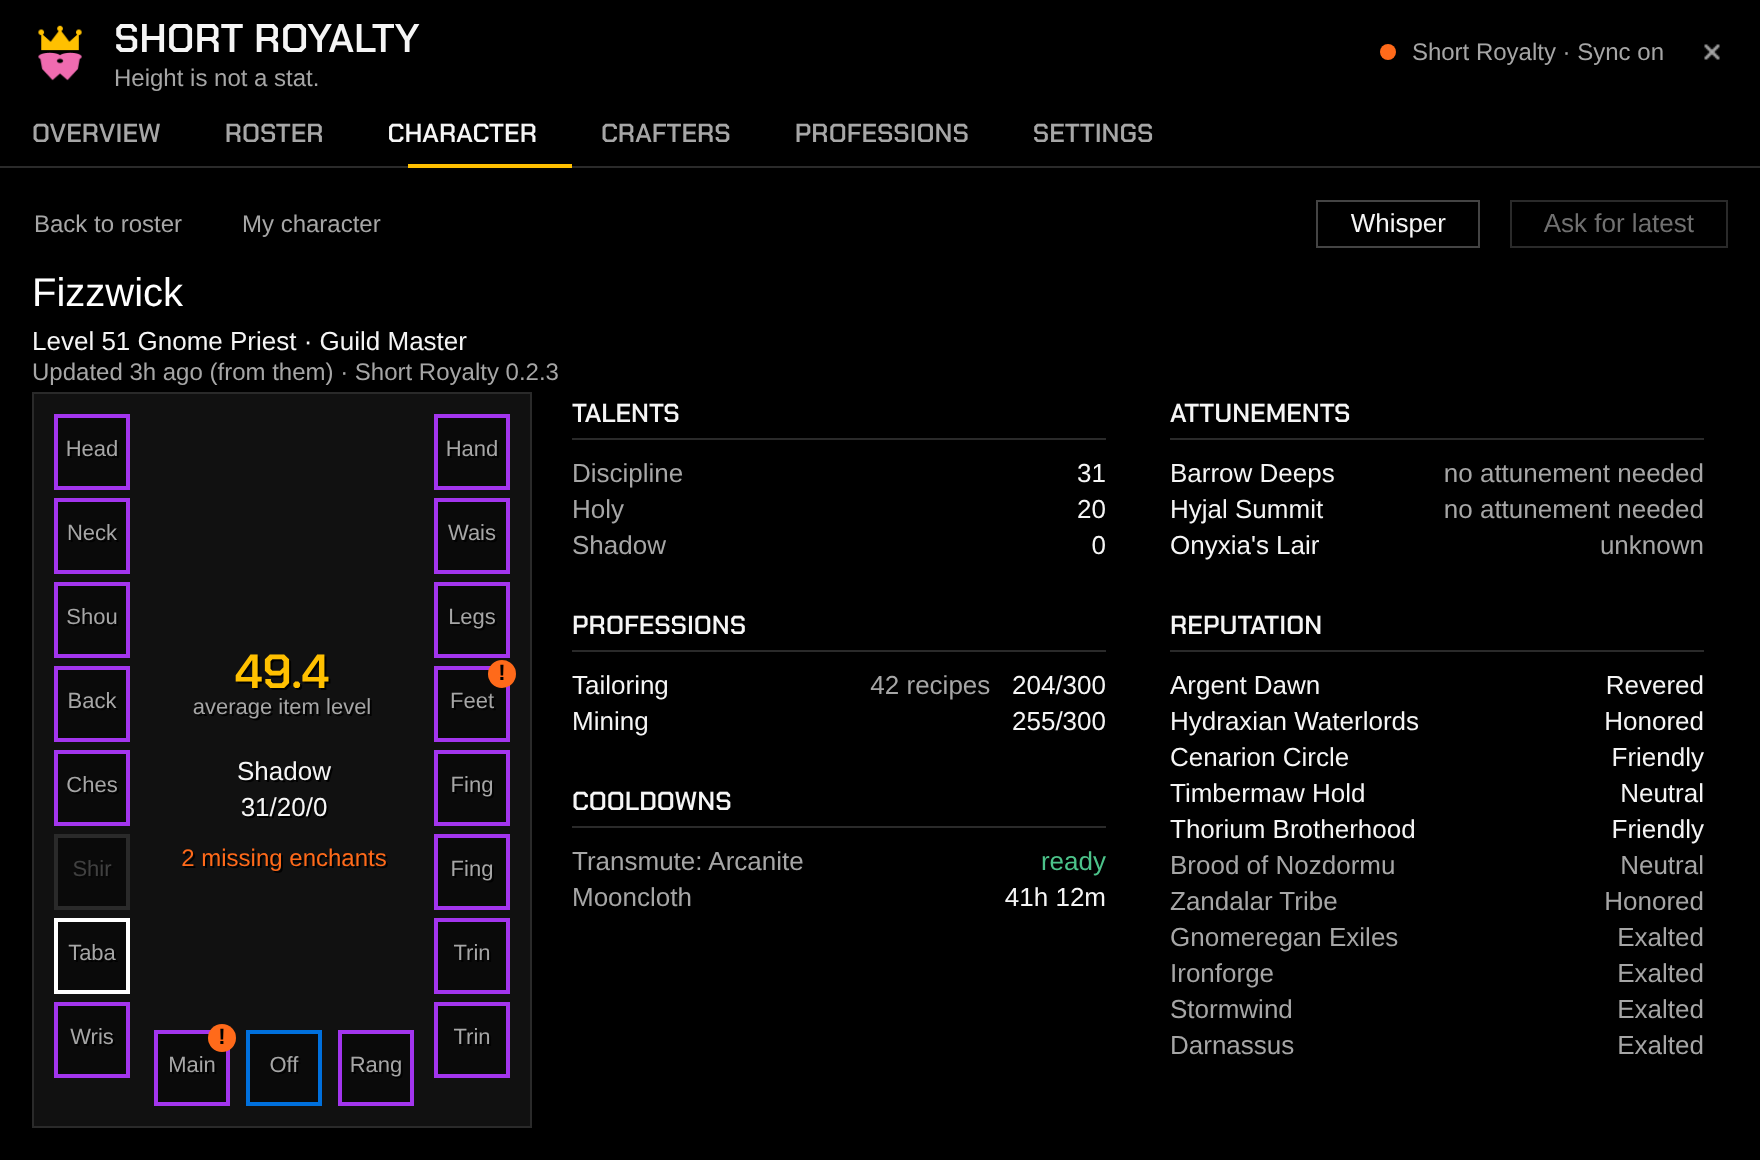
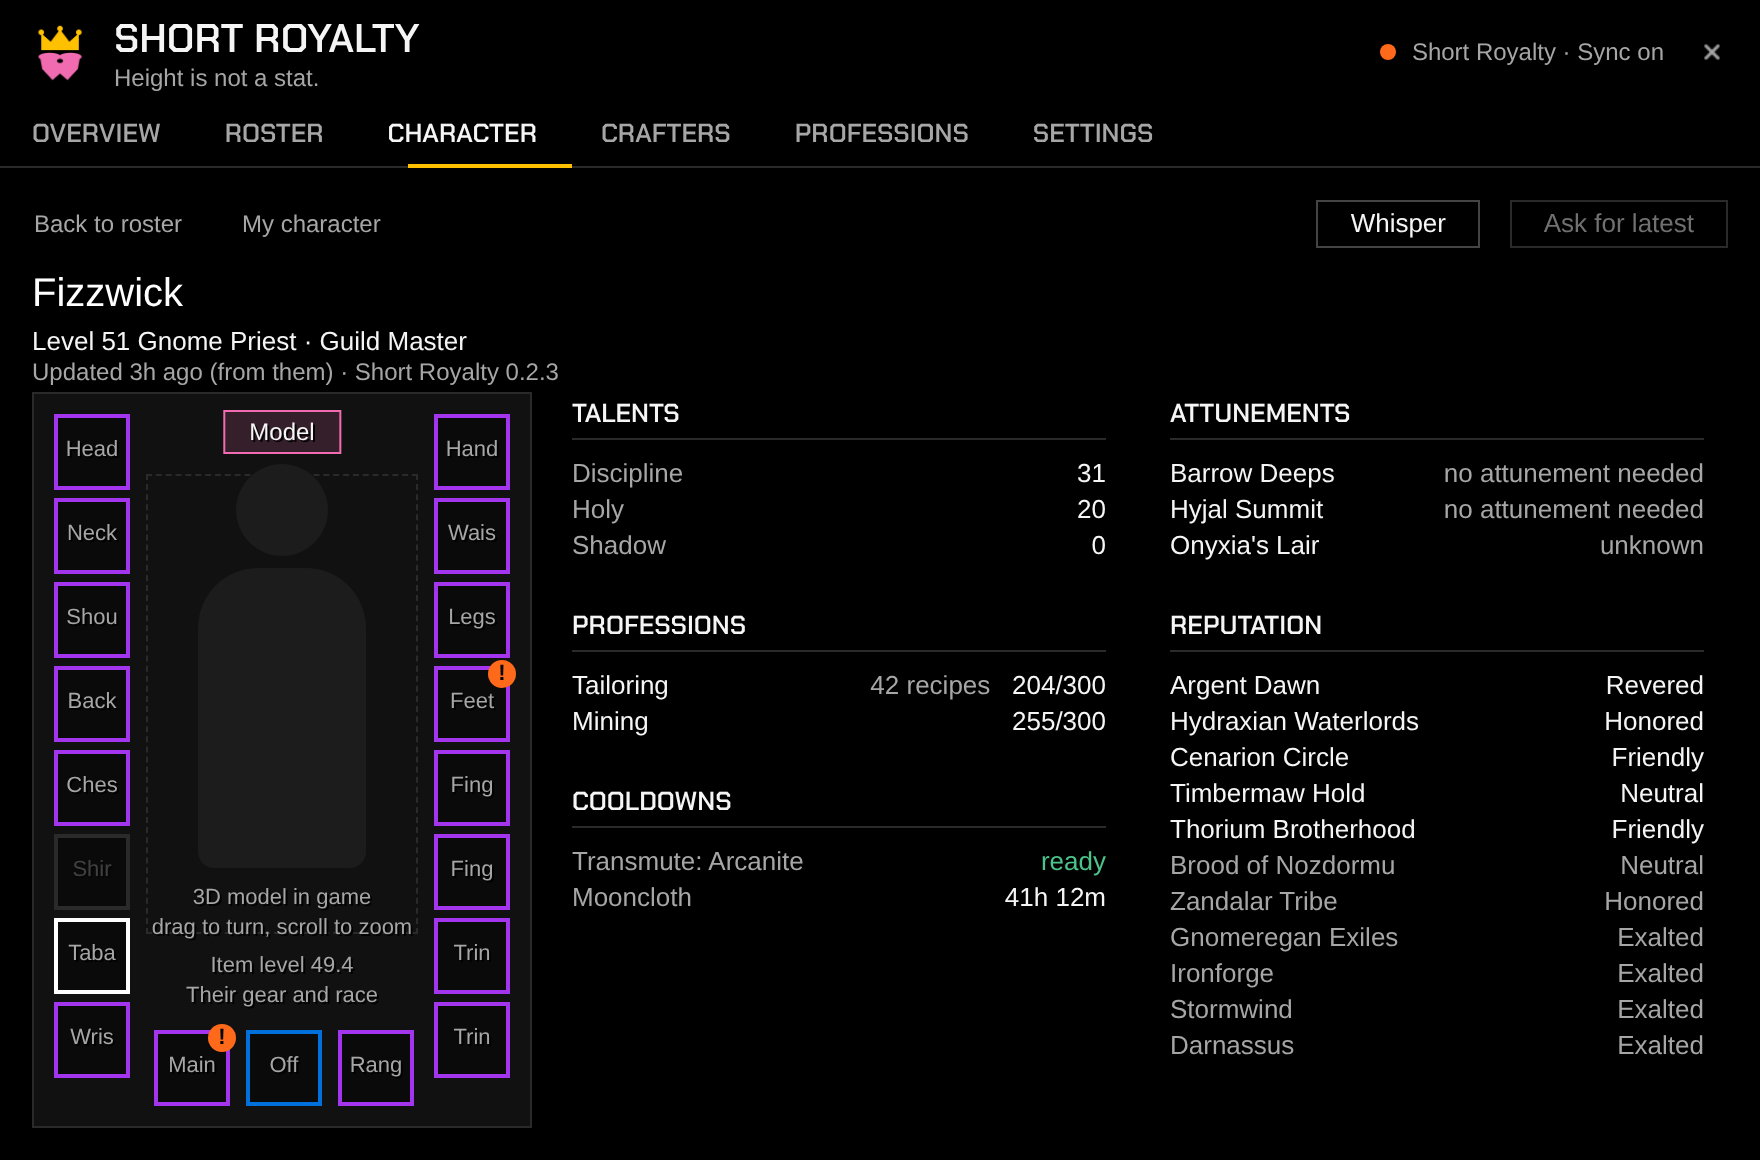
v0.4.3 docs, preview and pictures: character model
Claude-Session: https://claude.ai/code/session_01A7mubKGBR11Avqu3i7SrV1

Changed region(s): [[0.0938, 0.6517, 0.25, 0.869], [0.125, 0.3414, 0.2188, 0.4034], [0.125, 0.5586, 0.2188, 0.6207]]

diff --git a/preview/index.html b/preview/index.html
@@ -469,6 +469,12 @@ function character() {
   let center = `<div class="abs display gold" style="left:0;right:0;top:122px;text-align:center;font-size:24px">${m.hasData ? m.ilvl + ".4" : "-"}</div>
     <div class="abs dim" style="left:0;right:0;top:150px;text-align:center;font-size:11px">average item level</div>`;
   if (m.hasData) center += `<div class="abs" style="left:55px;width:140px;top:180px;text-align:center">${esc(m.spec)}<br><span>31/20/0</span></div><div class="abs spark" style="left:55px;width:140px;top:224px;text-align:center;font-size:12px">2 missing enchants</div>`;
+  // v0.4.3: the 3D model (drawn in game; the preview shows where it sits).
+  if (m.hasData && S.model !== "0") center = `<span class="chip on" style="position:absolute;left:50%;transform:translateX(-50%);top:8px">Model</span>
+    <div class="abs" style="left:56px;right:56px;top:40px;bottom:96px;border:1px dashed var(--line);display:flex;align-items:center;justify-content:center;text-align:center">
+      <div><div style="width:46px;height:46px;border-radius:50%;background:var(--raised);margin:0 auto 6px"></div><div style="width:84px;height:150px;border-radius:30px 30px 8px 8px;background:var(--raised);margin:0 auto"></div>
+      <div class="dim" style="font-size:11px;margin-top:8px">3D model in game<br>drag to turn, scroll to zoom</div></div></div>
+    <div class="abs dim" style="left:56px;right:56px;bottom:58px;text-align:center;font-size:11px;line-height:1.3">Item level ${m.ilvl}.4<br>Their gear and race</div>`;
   const colW = Math.floor((T.sizes.windowW - 2 * T.space.l - 250 - T.space.xl - (T.space.xl + T.space.m) - T.space.m) / 2);
   const details = !m.hasData ? `<div class="abs dim" style="left:270px;top:96px;right:0;line-height:1.35">No data synced yet. They may not have Short Royalty, or they're on a trial account (trials can't sync). Their profile appears here the next time they log in with it.</div>`
     : `<div class="sheet" style="left:270px;top:96px;bottom:0;width:${colW + 12}px">
@@ -763,7 +769,7 @@ function seg(id) {
 try { Object.assign(S, JSON.parse(localStorage.getItem("skPreview") || "{}")); } catch (e) { /* ignore */ }
 // ?screen=roster&data=worst&view=before&raid=ony  (and &shot=1 for the README pictures: window only, no chrome)
 const Q = new URLSearchParams(location.search);
-for (const k of ["screen", "data", "view", "raid", "prof", "profView", "start", "crafter", "remind"]) if (Q.get(k)) S[k] = Q.get(k);
+for (const k of ["screen", "data", "view", "raid", "prof", "profView", "start", "crafter", "remind", "model"]) if (Q.get(k)) S[k] = Q.get(k);
 const SHOT = Q.get("shot");
 if (SHOT) {
   document.body.classList.add("shot"); S.view = SHOT === "compare" ? "before" : "after"; S.reduce = true;

diff --git a/CLAUDE.md b/CLAUDE.md
@@ -485,6 +485,26 @@ messages → sender ignored for the session).
   send results (`Sync.SendOutcome(result, dist)` → "offline";
   `stats.targetOffline`). Tests: `tests/v042_spec.lua` (loads the real
   ChatThrottleLib). TESTING 137–139.
+- **v0.4.3 (7→11 Nov, on `claude/affectionate-archimedes-tirbrl`, not released)**:
+  character model on the Character tab (owner asked 11 Nov). Decisions:
+  - Forever has **no API to build a player model from data** (face, hair,
+    skin, gender: only the barber shop and character select can). Models come
+    only from a present unit. So: `Compat.ShowGearModel(scene, {guid, raceFile,
+    gear})` = real model via `SetModelByUnit(unit)` when `Compat.UnitForGUID`
+    finds them (player/target/focus/mouseover/party/raid), else
+    `SetModelByUnit("player", …, autoDress=false, …, customRaceID)` +
+    `Undress` + `TryOn(link, "MAINHANDSLOT"/"SECONDARYHANDSLOT")`. Same setup as
+    Blizzard's dressing room: `CreateFrame("ModelScene", nil, p,
+    "ModelSceneMixinTemplate")`, `TransitionToModelSceneID(596, …)`,
+    `GetPlayerActor(nil, nil, raceFile, gender)`. Race via
+    `C_CreatureInfo.GetRaceInfo` → `Compat.RaceID`. **Nothing new synced**
+    (gender was considered and dropped: it can't change the body).
+  - `settings.charModel` (default on), `CharacterTab:UpdateModel` rebuilds
+    only when guid / profile hash / "is here" changes, never in combat;
+    PLAYER_TARGET_CHANGED and GROUP_ROSTER_UPDATE refresh it. Untested in
+    game: TESTING 140–144 (does customRaceID really swap race?).
+  - The GitHub repo is now **EllisKOsborn/forever-shortroyalty** (old URL
+    redirects).
 - **v0.3.7 (folded into v0.4.0, never released)**: wording only. The owner asked whether
   to remove alt features; advice was no (removing them wouldn't fix the
   per-character gap and would lose roster grouping and "on alt" whispers).

diff --git a/README.md b/README.md
@@ -98,6 +98,7 @@ Onyxia's Lair, Forever's first wave) to see who's attuned:
 - **Ask for latest** asks them (or their online alt) for their newest data. It works while they're online with Short Royalty, at most every 30 seconds; otherwise it's greyed out and says why.
 - **Header:** name in class colour, level, race, class and rank, plus how old the data is and where it came from (*this account*, *from them*, *relayed by a guildmate*). Old data says *may be out of date*.
 - **Paperdoll:** all 19 slots with item-quality borders. Hover for the **real item tooltip**, Shift-click to link it, Ctrl-click for the dressing room. The middle shows **average item level** in gold, the main talent tree, and how many enchants are missing (an orange **!** marks each slot).
+- **Character model** (the **Model** chip, on by default) in the middle of the paperdoll: drag to turn it, scroll to zoom. When they're your **target** or in your **group** it's their real look. Otherwise it's **their gear on your character**, switched to their race where the game allows (face, hair, gender and build stay yours: the game only lets addons show players who are actually there). Shows their item level underneath. Click **Model** again for the item level, talents and missing enchants instead.
 - **Details** in two columns:
   - **Alts** and **notes**; **talents** per tree; **professions** with skill, recipe count or *not scanned yet*; **cooldowns** (transmutes, Mooncloth: time left or *ready*).
   - **Attunements** for the first raid wave (with the amulet warning) and **reputations**: raid and crafting factions first, then everything at Friendly or above.

diff --git a/TESTING.md b/TESTING.md
@@ -406,6 +406,22 @@ in game if anything looks different and send it.
 139. [ ] Open the profession windows the orange bar names. Over the next few
         days they stay "scanned yes" in `/sr debug` (they don't go back to NO).
 
+## v0.4.3 (character model)
+
+140. [ ] Character tab, your own character: the middle of the paperdoll shows
+        **your model in your gear**, "Their own look" under it. Drag to turn,
+        mouse wheel to zoom.
+141. [ ] A guildmate who **isn't** near you: their gear on a model with
+        "Their gear and race" (or "Their gear on you"). Check: are the right
+        items on it, both weapons in the right hands, and is it **their race**?
+        Tell me if it shows your race instead.
+142. [ ] **Target** that guildmate (or group with them) while their page is
+        open: the model switches to their real look ("Their own look").
+143. [ ] The **Model** button turns it off (item level, talents and enchants
+        come back) and on again. `/reload`: it remembers.
+144. [ ] Open a character in combat: no error, the model just doesn't change
+        until combat ends. Someone with gear hidden: no model.
+
 ## Known gaps in v0.1
 
 - No Raids tab yet (v0.4).

diff --git a/CHANGELOG.md b/CHANGELOG.md
@@ -1,5 +1,17 @@
 # Changelog
 
+## v0.4.3 (not released yet): character model
+
+- **A 3D model on the Character tab**, between the gear slots. Drag to turn
+  it, scroll to zoom; the **Model** button switches back to item level,
+  talents and enchants.
+- If the character is **your target or in your group**, it's their real
+  look. Otherwise it's **their gear on your character**, switched to their
+  race where the game allows. Their face, hair and gender can't be shown:
+  the game only lets addons build models of players who are actually there.
+- Nothing new is sent between players, so it works with guildmates on any
+  version that shares gear.
+
 ## v0.4.2 (10 Nov 2026): fixes from the first big in-game report
 
 From a `/sr debug` on v0.4.1 with 39 members and 24 sharing data:
